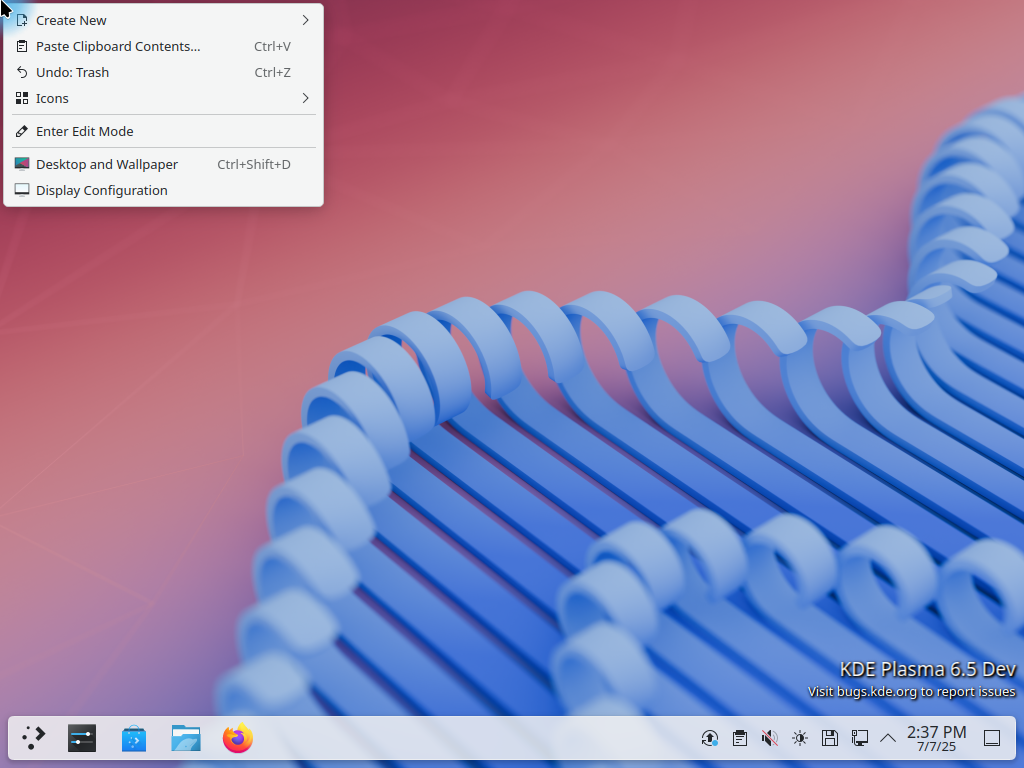
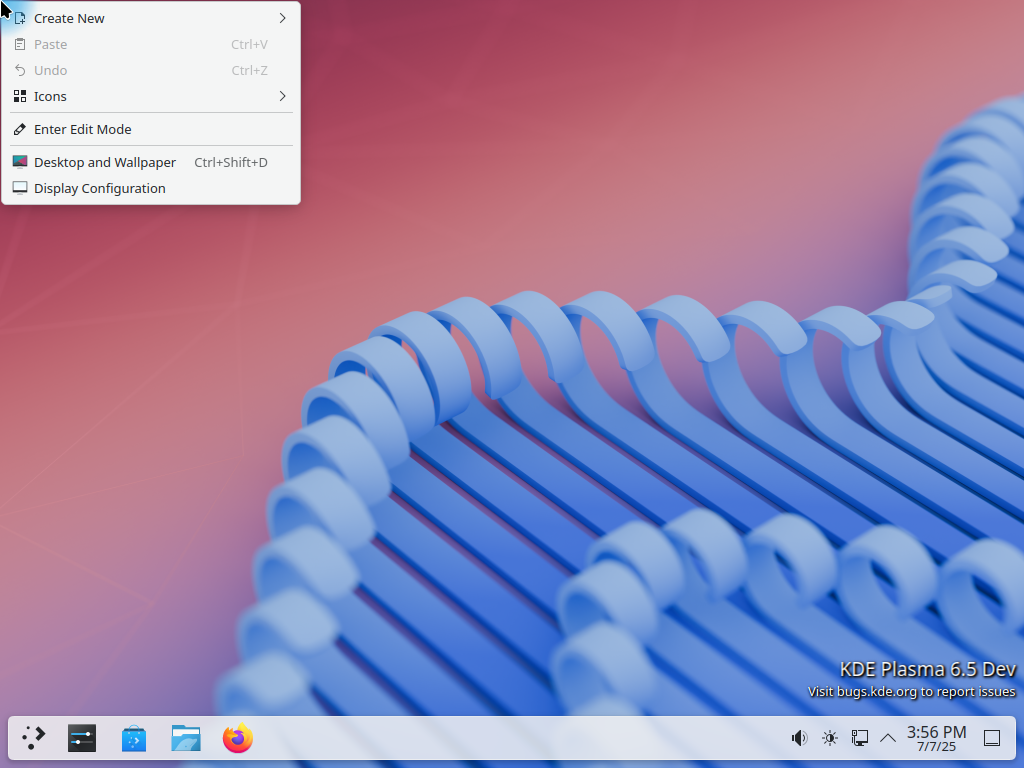
Fix needles: plasma_desktop_right_click_menu
Add test for switch windows.

fix: mis-import numpy release

Changed region(s): [[0.0, 0.0, 0.3438, 0.2812], [0.6875, 0.9375, 0.8125, 0.9688], [0.875, 0.9375, 0.9375, 0.9688]]

diff --git a/tests/kdelinux/desktop/switch_windows.py b/tests/kdelinux/desktop/switch_windows.py
@@ -1,0 +1,35 @@
+from testapi import *
+import sys, os
+
+from lib.sessions.app.system_settings import SystemSettingsSession
+from lib.sessions.konsole import KonsoleSession
+
+sys.path.insert(0, os.path.abspath(os.path.join(os.path.dirname(__file__), '../../../')))
+from lib.sessions.plasma_desktop import PlasmaDesktopSession
+
+
+def run(self):
+    (
+        KonsoleSession
+            .open()
+    )
+    (
+        SystemSettingsSession
+            .open()
+    )
+    (
+        PlasmaDesktopSession
+            .current()
+            .switch_windows(fast=False)
+    )
+    (
+        KonsoleSession
+            .current()
+            .expect_ready()
+            .close_window()
+    )
+    (
+        SystemSettingsSession
+            .current()
+            .close_window()
+    )

diff --git a/lib/sessions/plasma_desktop.py b/lib/sessions/plasma_desktop.py
@@ -60,3 +60,13 @@ class PlasmaDesktopSession(BaseSession):
 
     def expect_plasma_desktop_new_file_created(self, timeout=30):
         return self.expect('plasma_desktop_new_file_created', timeout=timeout)
+
+    def switch_windows(self, fast=True, timeout=30):
+        if fast:
+            send_key('alt-tab')
+        else:
+            hold_key('alt')
+            send_key('tab')
+            self.expect("windows_switcher_two_windows", timeout)
+            release_key('alt')
+        return self